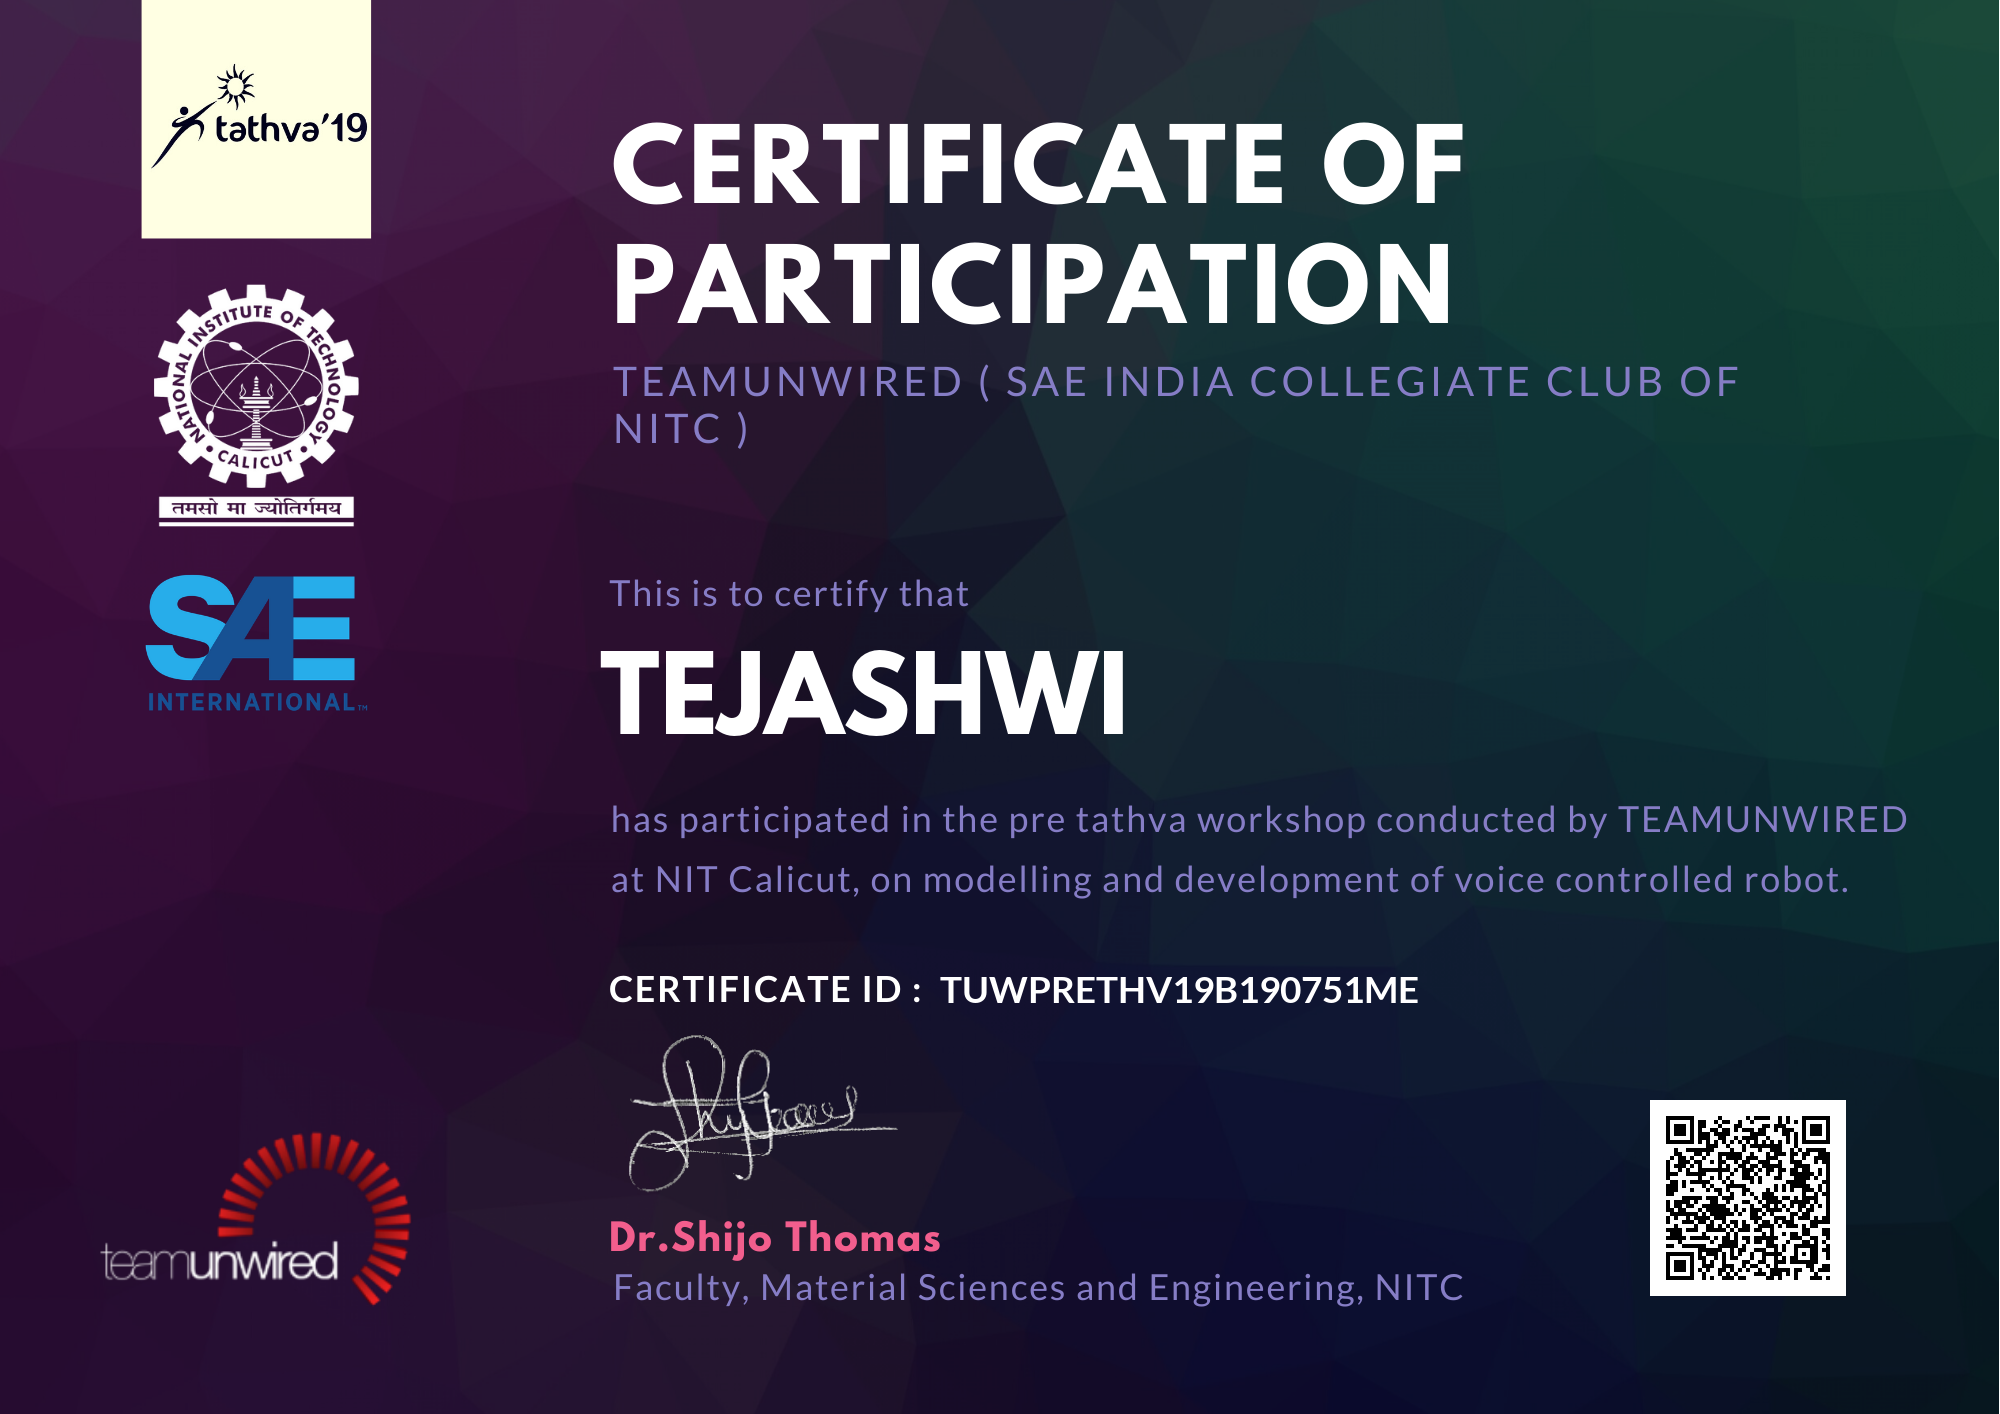
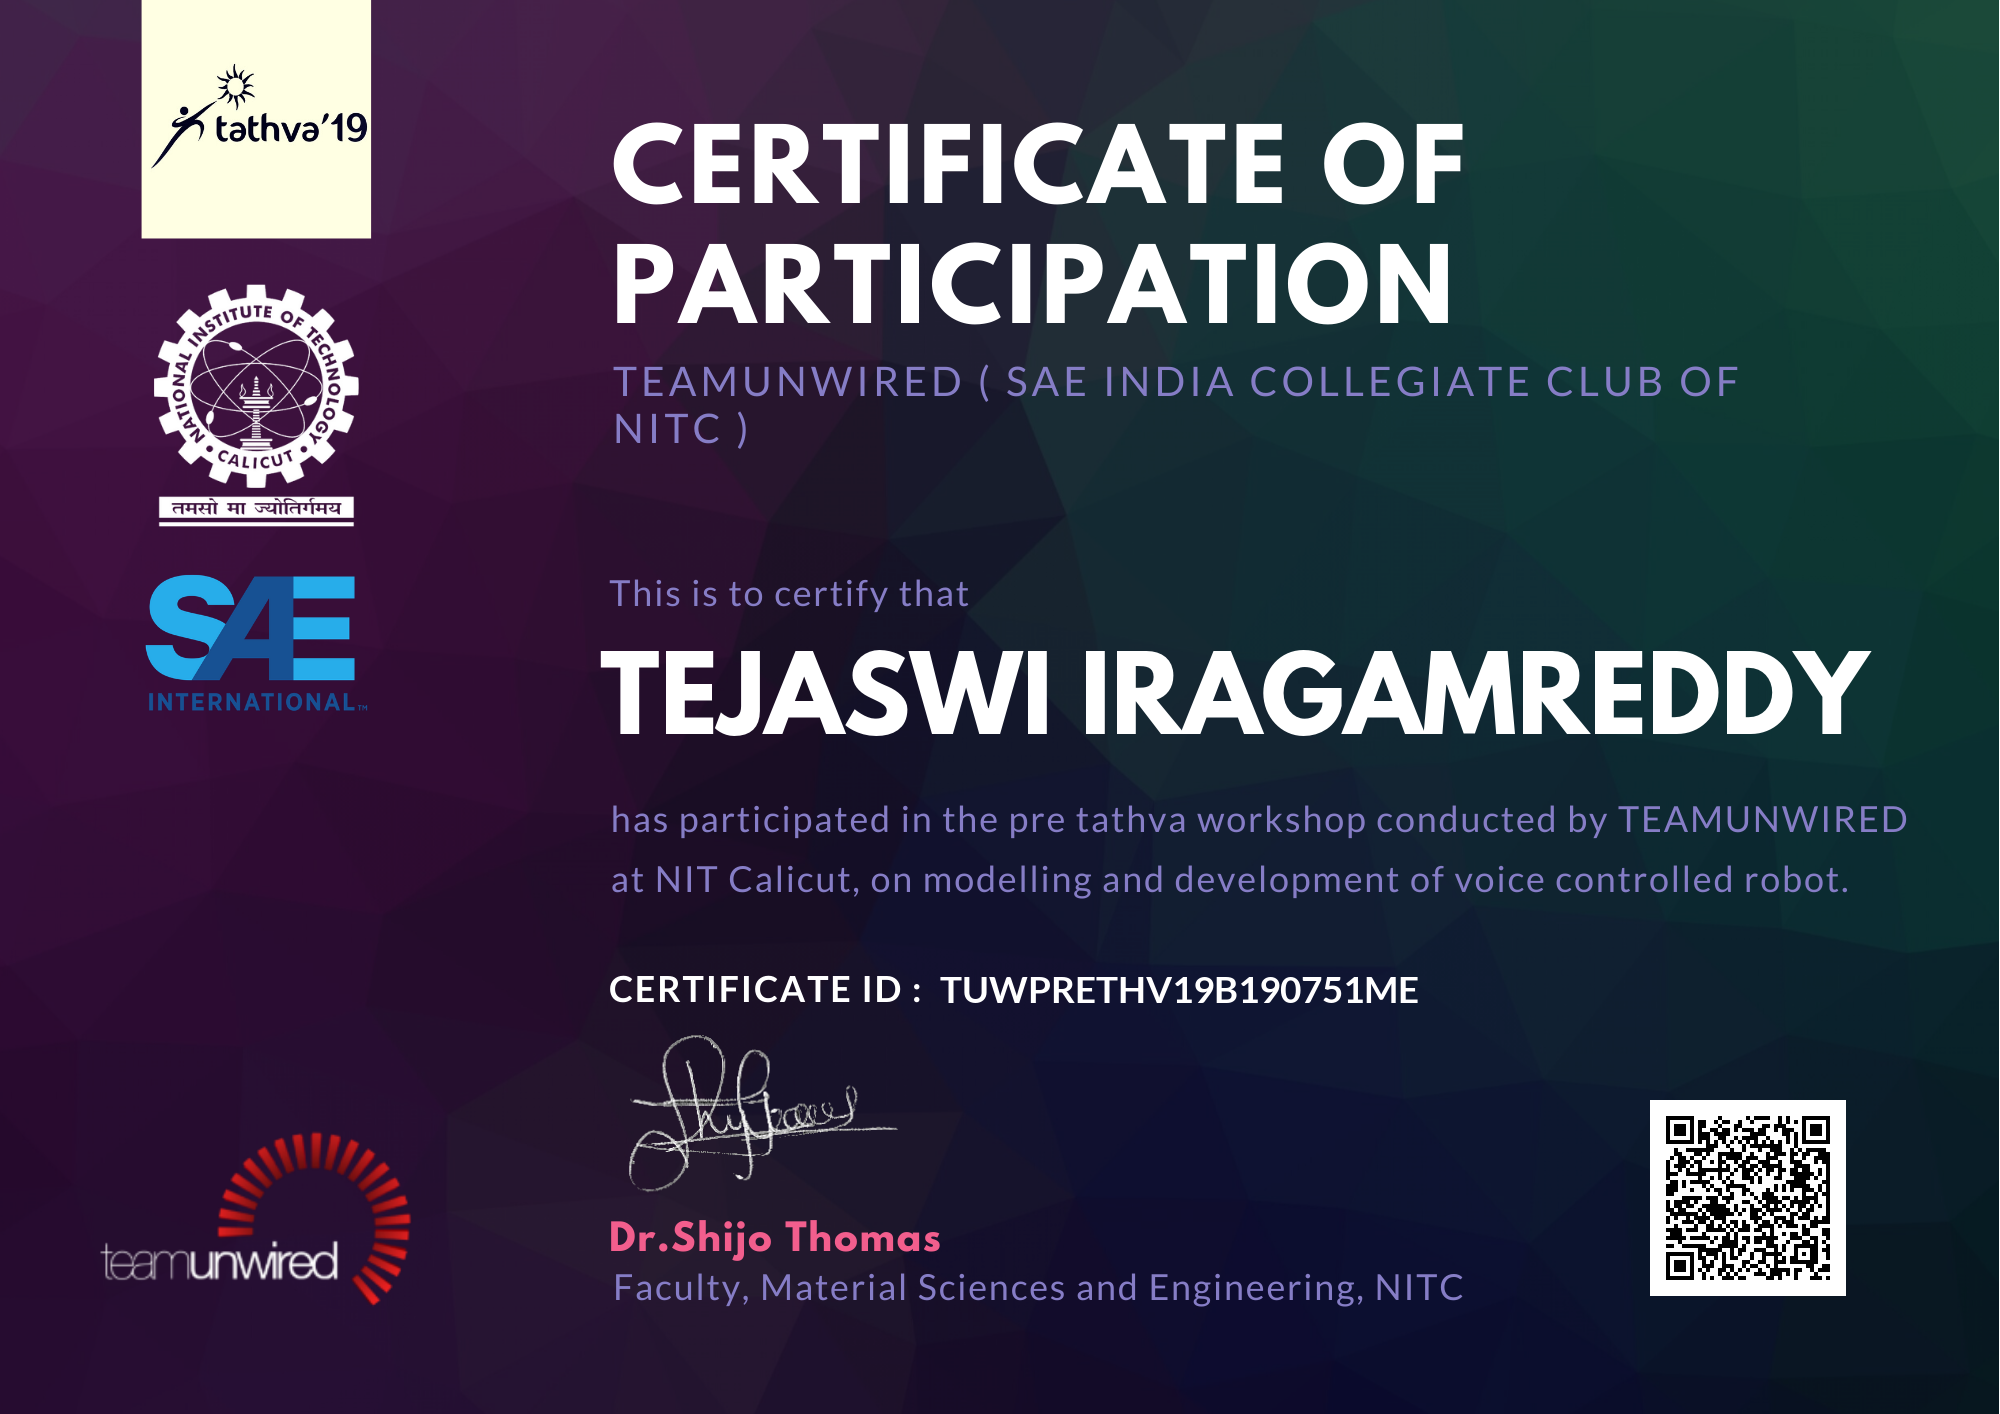
Corrections Updated

Changed region(s): [[0.434, 0.4356, 0.93, 0.529]]

diff --git a/verification/B190751ME.html b/verification/B190751ME.html
@@ -130,7 +130,7 @@
                             </div>                
 
                             <div class="card-box">
-                                <p class="block-text mbr-fonts-style display-5"><em>Tejashwi</em></p>
+                                <p class="block-text mbr-fonts-style display-5"><em>Tejaswi Iragamreddy</em></p>
                             </div>
                         </div>
 
